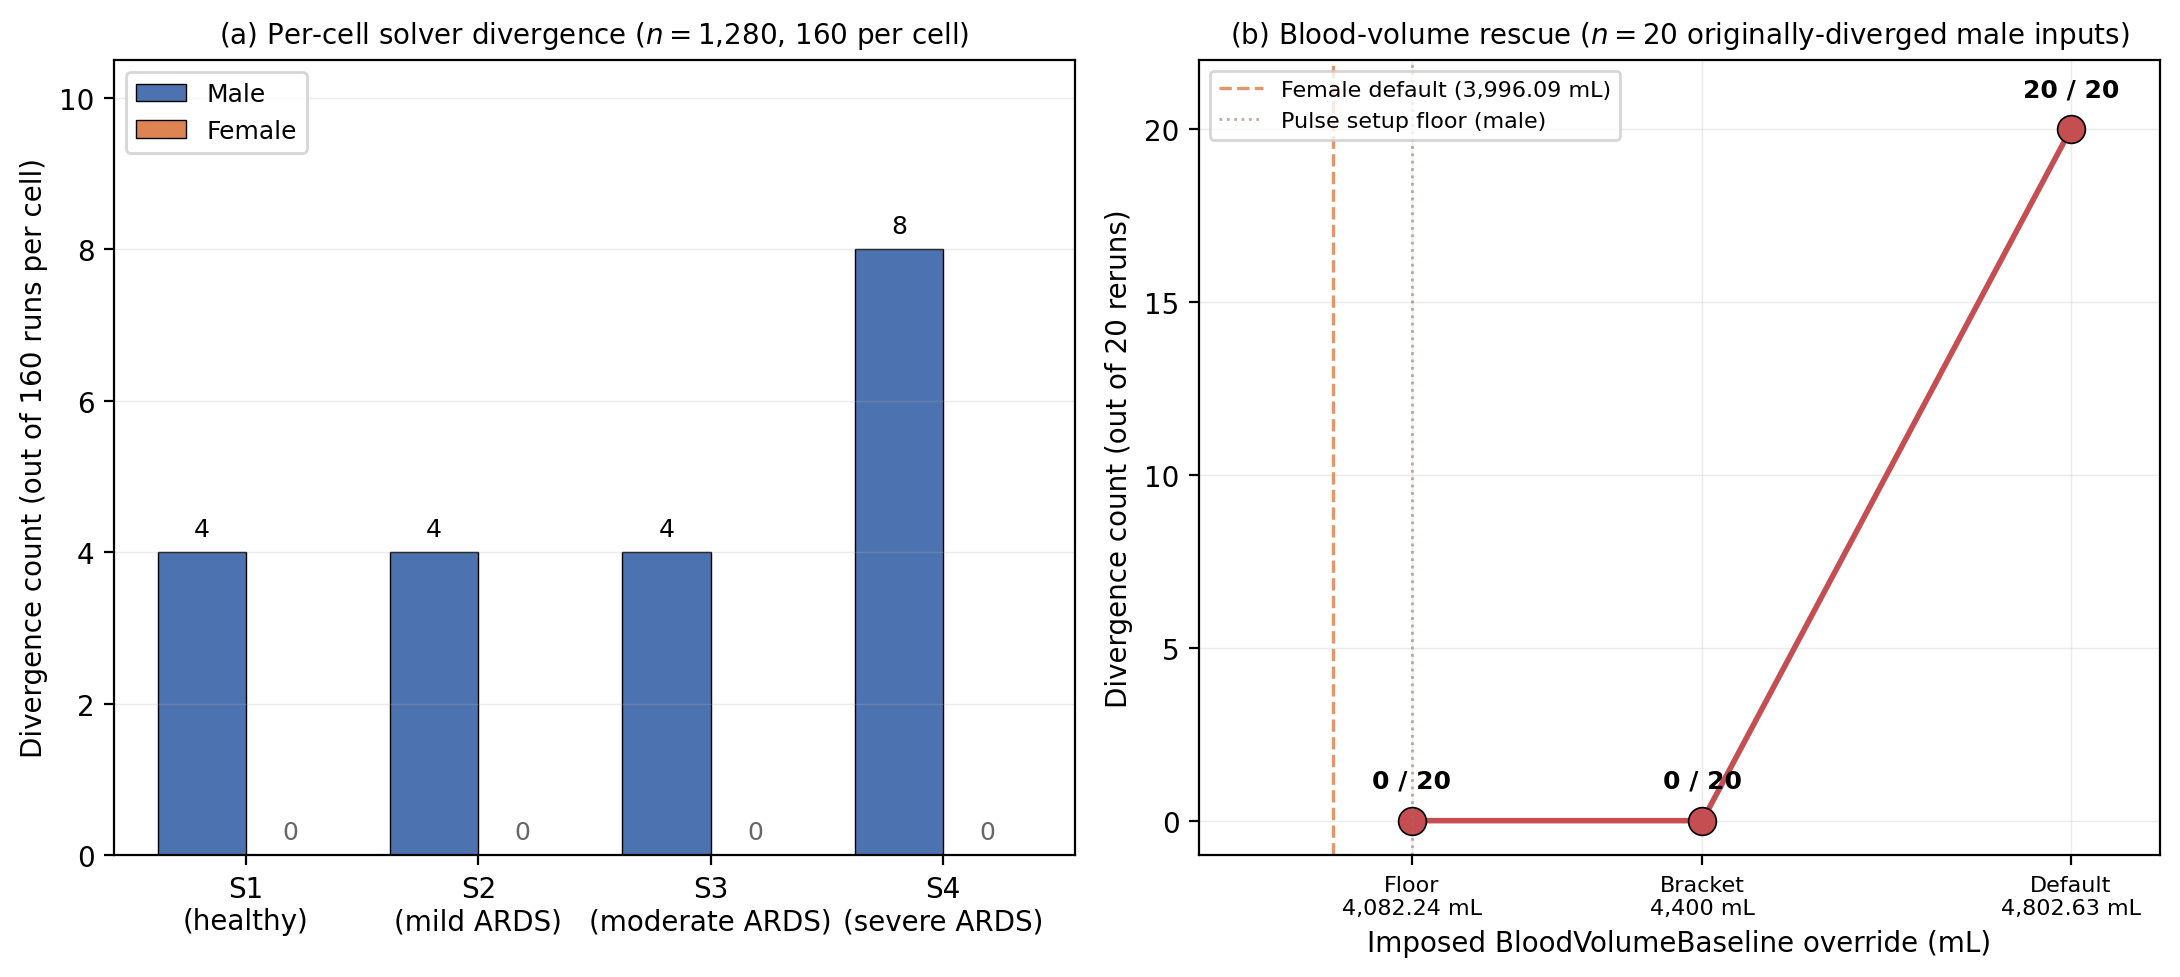
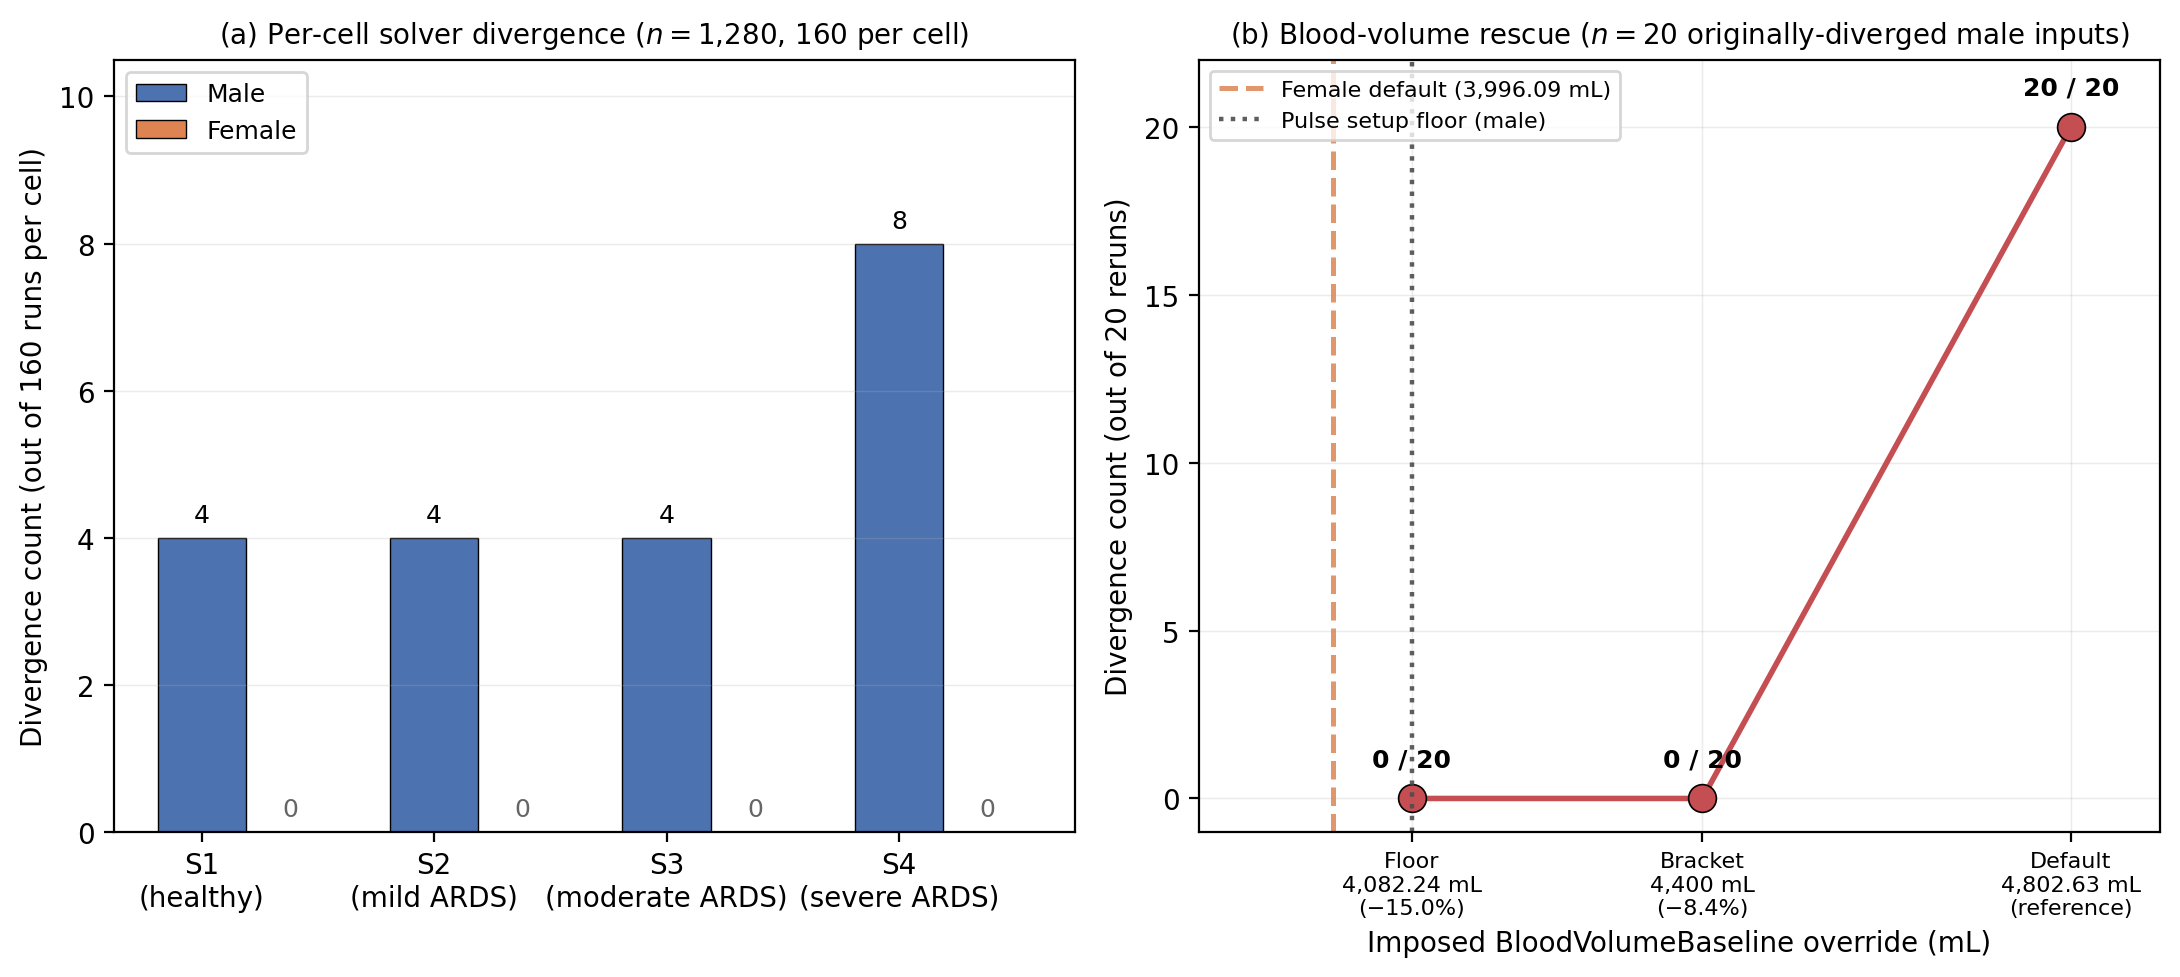
[FIGURE] Fig 5 (sex/BV) polish: x-label alignment, print-visible reference lines, per-tick % reductions + caption definition
Five presentation-only changes to fig04_sex_bv_mechanism (paper Figure 5); no
data changed (regeneration reproduces M=[4,4,4,8], F=[0,0,0,0], BV-rescue
20/0/0 exactly).

Panel (a):
  - x-tick scenario labels (S1..S4) centred under the visible male bars instead
    of the group centre; the female bars are all zero/invisible, so a
    group-centred label read as right-shifted from the only drawn bar.

Panel (b):
  - "Female default" dashed reference line thickened 1.2 -> 1.8 for print
    legibility.
  - "Pulse setup floor (male)" dotted reference line made legible: colour
    #937860 -> #4C4C4C, linewidth 1.0 -> 1.6, alpha 0.6 -> 0.9 (it sits on the
    Floor data point at 4,082.24 mL and was near-invisible before).
  - each x-tick now also reports the override's percentage reduction vs the male
    default (default = reference, bracket -8.4 %, floor -15.0 %), computed in the
    script, not hard-coded.

Caption (paper.tex, Figure 5): one sentence added formally defining the new
per-tick percentage annotation.

The 86 mL gap between the two reference lines (female 3,996.09 vs male floor
4,082.24) renders at 8.2 % of the x-axis width (axis spans 3,850-4,900 mL, not
zero-based) -- verified analytically and by pixel measurement on the PNG.

Audit: 247/247 anchors + 97/97 sync, exit 0. paper + supplement PDF/DOCX rebuilt.

diff --git a/scripts/make_paper_fig04.py b/scripts/make_paper_fig04.py
@@ -56,7 +56,10 @@ for xi, mc in zip(x, male_counts):
     axA.text(xi - width/2, mc + 0.15, f"{mc}", ha="center", va="bottom", fontsize=9)
 for xi, fc in zip(x, female_counts):
     axA.text(xi + width/2, fc + 0.15, f"{fc}", ha="center", va="bottom", fontsize=9, color="#666")
-axA.set_xticks(x)
+# Center the scenario labels under the (visible) male bars rather than the
+# group centre: the female bars are all zero (invisible), so a group-centred
+# label reads as right-shifted from the only drawn bar.
+axA.set_xticks([xi - width/2 for xi in x])
 axA.set_xticklabels([f"{sc}\n(healthy)" if sc == "S1" else (f"{sc}\n(mild ARDS)" if sc == "S2" else (f"{sc}\n(moderate ARDS)" if sc == "S3" else f"{sc}\n(severe ARDS)")) for sc in scenarios])
 axA.set_ylabel("Divergence count (out of 160 runs per cell)")
 axA.set_title(r"(a) Per-cell solver divergence ($n = 1{,}280$, 160 per cell)", fontsize=10)
@@ -70,17 +73,23 @@ floor_diverged = int(s18_f["diverged"].sum())
 
 dose_bv = [MALE_DEFAULT_BV_ML, BRACKET_BV_ML, MALE_FLOOR_BV_ML]
 dose_div = [20, bracket_diverged, floor_diverged]
+# Percent reduction of each override relative to the male default BV, so a
+# hurried reader sees the magnitude of the reduction alongside the raw mL
+# value (Floor = -15.0 %, Bracket = -8.4 %, Default = reference).
+def _pct_reduction(bv_ml: float) -> float:
+    return (MALE_DEFAULT_BV_ML - bv_ml) / MALE_DEFAULT_BV_ML * 100.0
+
 dose_labels = [
-    f"Default\n{MALE_DEFAULT_BV_ML:,.2f} mL",
-    f"Bracket\n{BRACKET_BV_ML:,.0f} mL",
-    f"Floor\n{MALE_FLOOR_BV_ML:,.2f} mL",
+    f"Default\n{MALE_DEFAULT_BV_ML:,.2f} mL\n(reference)",
+    f"Bracket\n{BRACKET_BV_ML:,.0f} mL\n(−{_pct_reduction(BRACKET_BV_ML):.1f}%)",
+    f"Floor\n{MALE_FLOOR_BV_ML:,.2f} mL\n(−{_pct_reduction(MALE_FLOOR_BV_ML):.1f}%)",
 ]
 
 axB.plot(dose_bv, dose_div, marker="o", linewidth=2.0, markersize=10, color="#C44E52", markeredgecolor="black", markeredgewidth=0.6)
 for bv, div in zip(dose_bv, dose_div):
     axB.text(bv, div + 0.8, f"{div} / 20", ha="center", va="bottom", fontsize=9, fontweight="bold")
-axB.axvline(FEMALE_DEFAULT_BV_ML, color="#DD8452", linestyle="--", linewidth=1.2, alpha=0.85, label=f"Female default ({FEMALE_DEFAULT_BV_ML:,.2f} mL)")
-axB.axvline(MALE_FLOOR_BV_ML, color="#937860", linestyle=":", linewidth=1.0, alpha=0.6, label="Pulse setup floor (male)")
+axB.axvline(FEMALE_DEFAULT_BV_ML, color="#DD8452", linestyle="--", linewidth=1.8, alpha=0.85, label=f"Female default ({FEMALE_DEFAULT_BV_ML:,.2f} mL)")
+axB.axvline(MALE_FLOOR_BV_ML, color="#4C4C4C", linestyle=":", linewidth=1.6, alpha=0.9, label="Pulse setup floor (male)")
 axB.set_xlim(3850, 4900)
 axB.set_ylim(-1, 22)
 axB.set_xlabel(r"Imposed \texttt{BloodVolumeBaseline} override (mL)".replace(r"\texttt{", "").replace("}", ""))

diff --git a/preprint_npj/paper.tex b/preprint_npj/paper.tex
@@ -293,7 +293,7 @@ A separate engine-level observation emerged from the same experiment: Pulse enfo
 \begin{figure}[h]
 \centering
 \includegraphics[width=0.95\textwidth]{figures/fig04_sex_bv_mechanism.pdf}
-\caption{Sex-stratified solver divergence and its blood-volume mechanism. \textbf{(a)} Divergence counts per (scenario $\times$ sex) cell across the 1{,}280-run sweep. All 20 divergence events fall on the male reference body; the female reference body runs an identical Morris input grid without a single divergence. \textbf{(b)} Blood-volume rescue dose-response on the 20 originally-diverged male inputs. The $x$-axis is the imposed \texttt{BloodVolumeBaseline} override (4{,}803~mL default, 4{,}400~mL intermediate bracket, 4{,}082~mL Pulse setup-time floor on this body); the $y$-axis is the divergence count out of 20. Pulse's allometric formula computes 3{,}996~mL for the female reference body, indicated by the dashed vertical line --- 86~mL below the male floor, so a one-way BV transplant cannot make the two reference bodies BV-equivalent. The collapse to zero at both reductions (20 $\rightarrow$ 0) confirms blood-volume baseline as the key mechanism behind the all-male divergence cluster. Cell-label key in (a) (Table~\ref{tab:terms}): S1 healthy baseline, S2 mild ARDS, S3 moderate, S4 severe; \_M and \_F denote the male and female reference body.}
+\caption{Sex-stratified solver divergence and its blood-volume mechanism. \textbf{(a)} Divergence counts per (scenario $\times$ sex) cell across the 1{,}280-run sweep. All 20 divergence events fall on the male reference body; the female reference body runs an identical Morris input grid without a single divergence. \textbf{(b)} Blood-volume rescue dose-response on the 20 originally-diverged male inputs. The $x$-axis is the imposed \texttt{BloodVolumeBaseline} override (4{,}803~mL default, 4{,}400~mL intermediate bracket, 4{,}082~mL Pulse setup-time floor on this body); the $y$-axis is the divergence count out of 20. The percentage beneath each $x$-tick is the override's reduction relative to the male default (default = reference, bracket $-8.4$~\%, floor $-15.0$~\%). Pulse's allometric formula computes 3{,}996~mL for the female reference body, indicated by the dashed vertical line --- 86~mL below the male floor, so a one-way BV transplant cannot make the two reference bodies BV-equivalent. The collapse to zero at both reductions (20 $\rightarrow$ 0) confirms blood-volume baseline as the key mechanism behind the all-male divergence cluster. Cell-label key in (a) (Table~\ref{tab:terms}): S1 healthy baseline, S2 mild ARDS, S3 moderate, S4 severe; \_M and \_F denote the male and female reference body.}
 \label{fig:sex_bv}
 \end{figure}
 
